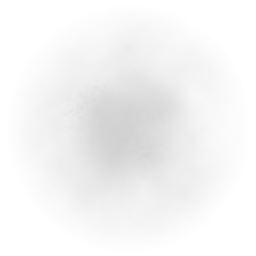
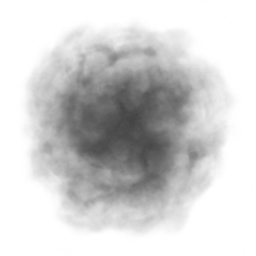
23:40 04-01-2017

diff --git a/smoke.js b/smoke.js
@@ -24,8 +24,9 @@ imageObj.onload = function() {
     });
 };
 
+
 // Once the callback is arranged then set the source of the image
-imageObj.src = "https://raw.githubusercontent.com/MelMiranda/MelMiranda.github.io/master/img/smoke.png?token=ALM745VZnucDCUa3esSzy9YR0TMpIA50ks5YdujkwA%3D%3D";
+imageObj.src = "http://i.imgur.com/wJxI64w.png";
 
 // A function to create a particle object.
 function Particle(context) {
